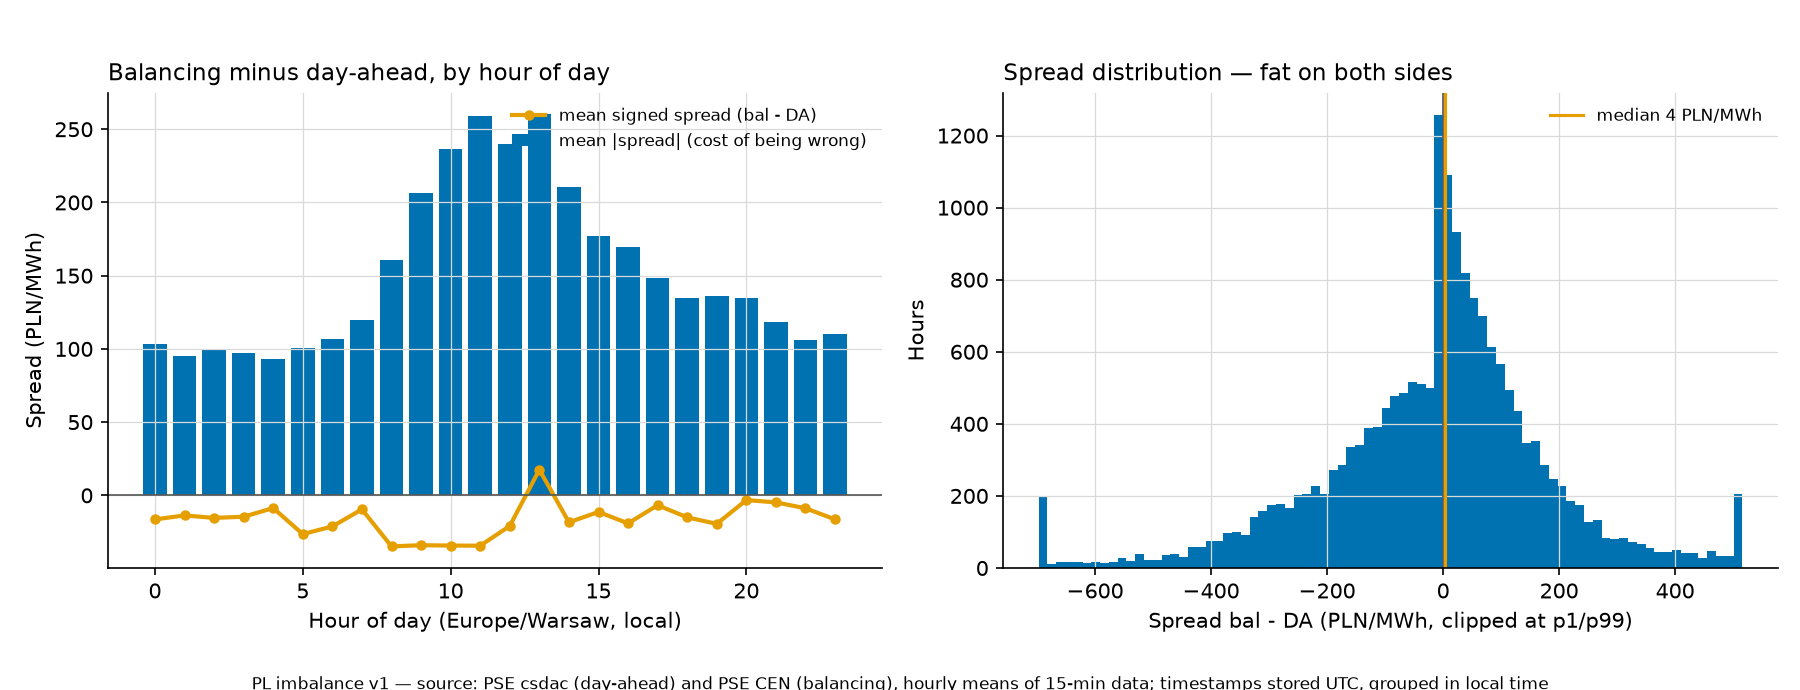
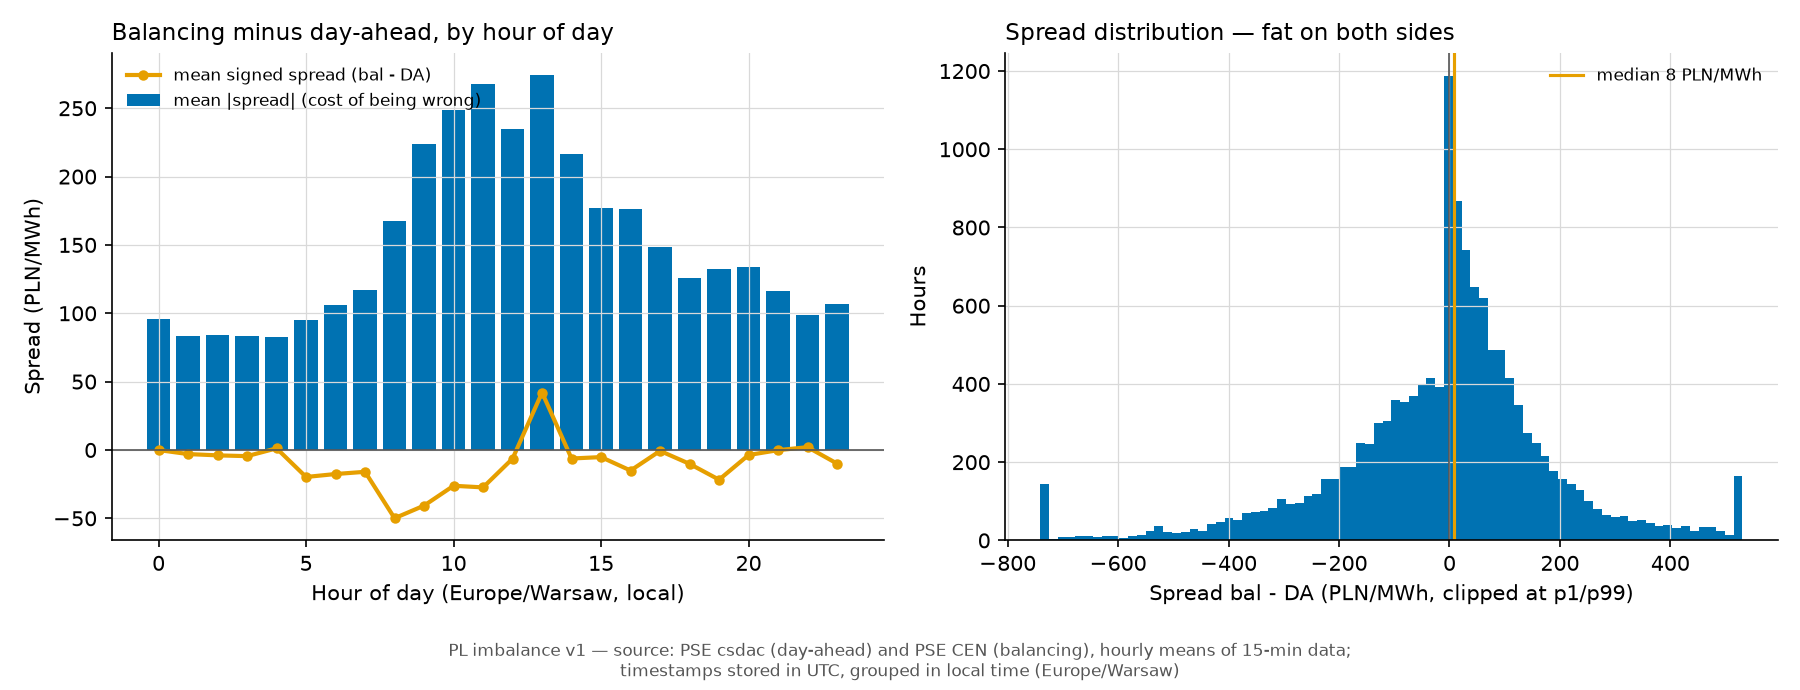
feat: imbalance market v1 — the third link, finally read
First analysis of price_balancing.parquet (fetched since Phase 2,
never used — review finding). 18,456 overlap hours, 2024-06 → 2026-07:

- Spread (balancing − DA): mean −16 PLN/MWh but mean |spread| 151 —
  a volatility problem, not a bias problem. Coin-flip direction (51%).
- Bites in solar hours: 13:00 local mean gap 260 PLN/MWh, ~2x night.
- Cost of a 1 MWh P50 miss (EUR errors converted at the implied hourly
  PLN/EUR rate): our forecast errors carry ~no information about the
  spread (corr 0.04); apparent −8 PLN/MWh edge flagged as too weak
  (day-clustered t −2.4).
- Takeaway: an imbalance model must predict spread SIGN; improving the
  DA forecast will not move this number. Scoping input for the next
  plan.

Module src/evaluation/run_imbalance_analysis.py (argparse, pure logic
split out), 22 synthetic-frame tests, manager-readable report +
spread-by-hour figure.

diff --git a/src/evaluation/run_imbalance_analysis.py b/src/evaluation/run_imbalance_analysis.py
@@ -214,6 +214,9 @@ def summarize_miss_cost(costed: pd.DataFrame) -> dict[str, float]:
         "mean_cost_under_pln": float(under.mean()) if len(under) else float("nan"),
         "mean_cost_over_pln": float(over.mean()) if len(over) else float("nan"),
         "p95_cost_pln": float(cost.quantile(0.95)),
+        "std_cost_pln": float(cost.std()),
+        "t_mean_cost_daily_clustered": daily_clustered_t(cost),
+        "corr_err_spread": float(costed["err_pln"].corr(costed["spread_pln"])),
     }
 
 
@@ -241,7 +244,7 @@ def make_figure(spread: pd.Series, by_hour: pd.DataFrame, path: Path) -> None:
     ax.set_xlabel("Hour of day (Europe/Warsaw, local)")
     ax.set_ylabel("Spread (PLN/MWh)")
     ax.set_title("Balancing minus day-ahead, by hour of day", loc="left")
-    ax.legend(frameon=False, fontsize=8)
+    ax.legend(frameon=False, fontsize=8, loc="upper left")
 
     ax = axes[1]
     lo, hi = spread.quantile(0.01), spread.quantile(0.99)
@@ -254,13 +257,14 @@ def make_figure(spread: pd.Series, by_hour: pd.DataFrame, path: Path) -> None:
     ax.set_title("Spread distribution — fat on both sides", loc="left")
     ax.legend(frameon=False, fontsize=8)
 
-    fig.suptitle(
+    fig.text(
+        0.5, 0.02,
         "PL imbalance v1 — source: PSE csdac (day-ahead) and PSE CEN "
-        "(balancing), hourly means of 15-min data; timestamps stored UTC, "
-        "grouped in local time",
-        fontsize=8, y=0.02,
+        "(balancing), hourly means of 15-min data;\ntimestamps stored in UTC, "
+        "grouped in local time (Europe/Warsaw)",
+        fontsize=8, ha="center", color="#555555",
     )
-    fig.tight_layout(rect=(0, 0.05, 1, 1))
+    fig.tight_layout(rect=(0, 0.09, 1, 1))
     path.parent.mkdir(parents=True, exist_ok=True)
     fig.savefig(path, dpi=150)
     plt.close(fig)
@@ -274,6 +278,7 @@ def _md_report(
     period: tuple[pd.Timestamp, pd.Timestamp],
     fig_rel: str,
     stamp: str,
+    min_eur: float,
 ) -> str:
     worst = by_hour["mean_abs_pln"].idxmax()
     best_model = min(model_stats, key=lambda m: model_stats[m]["mean_cost_pln"]) \
@@ -334,27 +339,53 @@ def _md_report(
         "*Mean cost* is what our actual misses cost, sign included.", "",
     ]
     if ref:
+        edge = ("a small net gain" if ref["mean_cost_pln"] < 0
+                else "a small net loss")
         lines += [
             f"- Our day-ahead price error is **{ref['mae_pln']:.0f} "
             f"PLN/MWh** (MAE, converted from EUR).",
             f"- The imbalance spread we would face is **"
-            f"{ref['naive_cost_bound_pln']:.0f} PLN/MWh** on average.",
+            f"{ref['naive_cost_bound_pln']:.0f} PLN/MWh** on average — "
+            f"about {ref['naive_cost_bound_pln'] / max(ref['mae_pln'], 1e-9):.1f}x "
+            "our price error.",
             f"- Actual mean cost of a miss: **{ref['mean_cost_pln']:.1f} "
-            f"PLN/MWh**, with **{100 * ref['share_costly_hours']:.0f}%** of "
-            "misses landing on the losing side.", "",
+            f"PLN/MWh** — {edge} versus zero, with **"
+            f"{100 * ref['share_costly_hours']:.0f}%** of misses landing on "
+            "the losing side.",
+            f"- Spread of that cost: {ref['std_cost_pln']:.0f} PLN/MWh. "
+            f"t-statistic of the mean, clustered by day: "
+            f"{ref['t_mean_cost_daily_clustered']:.1f}. Correlation between "
+            f"our price error and the spread: "
+            f"{ref['corr_err_spread']:.2f}.", "",
+        ]
+    lines += ["## 4. Takeaway", ""]
+    if ref:
+        weak = abs(ref["t_mean_cost_daily_clustered"]) < 3.0
+        lines += [
+            "**The imbalance spread is about "
+            f"{ref['naive_cost_bound_pln'] / max(ref['mae_pln'], 1e-9):.0f}x "
+            "bigger than our whole day-ahead price error, and our forecast "
+            "carries almost no information about it "
+            f"(correlation {ref['corr_err_spread']:.2f}, "
+            f"{100 * ref['share_costly_hours']:.0f}% of misses lose money). "
+            "So an imbalance model is worth scoping — but it must predict "
+            "the *sign* of the spread. A better day-ahead price model will "
+            "not move this number.**", "",
+            f"Our misses are on average {'slightly lucky' if ref['mean_cost_pln'] < 0 else 'slightly costly'} "
+            f"({ref['mean_cost_pln']:.1f} PLN/MWh"
+            + (", day-clustered t = "
+               f"{ref['t_mean_cost_daily_clustered']:.1f} — "
+               + ("too weak to trade on" if weak else "worth a second look")
+               + ")")
+            + ". Do not build a strategy on it yet.", "",
         ]
     lines += [
-        "## 4. Takeaway", "",
-        "**The imbalance spread is bigger than our whole day-ahead forecast "
-        "error, and our price forecast gives us no edge on it — direction is "
-        "a coin flip. So a dedicated imbalance model is worth scoping, but "
-        "only if it predicts the *sign* of the spread; a better day-ahead "
-        "price model will not help here.**", "",
         f"![spread by hour]({fig_rel})", "",
         "### Caveats", "",
         "- EUR errors were converted to PLN with the hourly implied rate "
         "`price_da_pln / price_da_eur`. Hours with a EUR price below "
-        "5 EUR/MWh (including negative-price hours) get their local day's "
+        f"{min_eur:.0f} EUR/MWh (including negative-price hours) get their "
+        "local day's "
         "median rate instead — the raw ratio explodes near zero.",
         "- The balancing price is a single settlement price here. Real PSE "
         "settlement has more components.",
@@ -444,7 +475,7 @@ def main() -> int:
     md = _md_report(
         head, by_hour, by_year, model_stats,
         (df.index.min(), df.index.max()),
-        "../figures/imbalance/spread_by_hour.png", stamp,
+        "../figures/imbalance/spread_by_hour.png", stamp, args.min_eur,
     )
     md_path = out_dir / f"{stamp}_imbalance_v1.md"
     md_path.write_text(md)

diff --git a/tests/test_imbalance_analysis.py b/tests/test_imbalance_analysis.py
@@ -12,6 +12,7 @@ import pytest
 
 from src.evaluation.run_imbalance_analysis import (
     compute_spread,
+    daily_clustered_t,
     implied_fx_rate,
     miss_cost,
     spread_by_group,
@@ -169,6 +170,21 @@ def test_summarize_miss_cost_decomposition():
 
 def test_summarize_miss_cost_empty():
     assert summarize_miss_cost(pd.DataFrame()) == {}
+
+
+def test_daily_clustering_shrinks_the_t_statistic():
+    """Same value repeated inside a day must not count as new evidence."""
+    idx = pd.date_range("2025-01-01", periods=240, freq="h", tz="UTC")
+    rng = np.random.default_rng(0)
+    day_effect = rng.normal(5.0, 20.0, size=10).repeat(24)
+    cost = pd.Series(day_effect, index=idx)
+    hourly_t = cost.mean() / (cost.std() / np.sqrt(len(cost)))
+    assert abs(daily_clustered_t(cost)) < abs(hourly_t)
+
+
+def test_daily_clustered_t_needs_variation():
+    idx = pd.date_range("2025-01-01", periods=48, freq="h", tz="UTC")
+    assert np.isnan(daily_clustered_t(pd.Series(3.0, index=idx)))
 
 
 # --------------------------------------------------------------------------

diff --git a/reports/backtests/2026-07-28_imbalance_v1.md b/reports/backtests/2026-07-28_imbalance_v1.md
@@ -67,12 +67,15 @@ Assumption in one line: a party sizes its day-ahead buy on our P50 price forecas
 How to read the row: *naive cost bound* is the average absolute spread — what you pay if every miss lands on the wrong side. *Mean cost* is what our actual misses cost, sign included.
 
 - Our day-ahead price error is **76 PLN/MWh** (MAE, converted from EUR).
-- The imbalance spread we would face is **150 PLN/MWh** on average.
-- Actual mean cost of a miss: **-8.7 PLN/MWh**, with **50%** of misses landing on the losing side.
+- The imbalance spread we would face is **150 PLN/MWh** on average — about 2.0x our price error.
+- Actual mean cost of a miss: **-8.7 PLN/MWh** — a small net gain versus zero, with **50%** of misses landing on the losing side.
+- Spread of that cost: 317 PLN/MWh. t-statistic of the mean, clustered by day: -2.5. Correlation between our price error and the spread: 0.04.
 
 ## 4. Takeaway
 
-**The imbalance spread is bigger than our whole day-ahead forecast error, and our price forecast gives us no edge on it — direction is a coin flip. So a dedicated imbalance model is worth scoping, but only if it predicts the *sign* of the spread; a better day-ahead price model will not help here.**
+**The imbalance spread is about 2x bigger than our whole day-ahead price error, and our forecast carries almost no information about it (correlation 0.04, 50% of misses lose money). So an imbalance model is worth scoping — but it must predict the *sign* of the spread. A better day-ahead price model will not move this number.**
+
+Our misses are on average slightly lucky (-8.7 PLN/MWh, day-clustered t = -2.5 — too weak to trade on). Do not build a strategy on it yet.
 
 ![spread by hour](../figures/imbalance/spread_by_hour.png)
 
